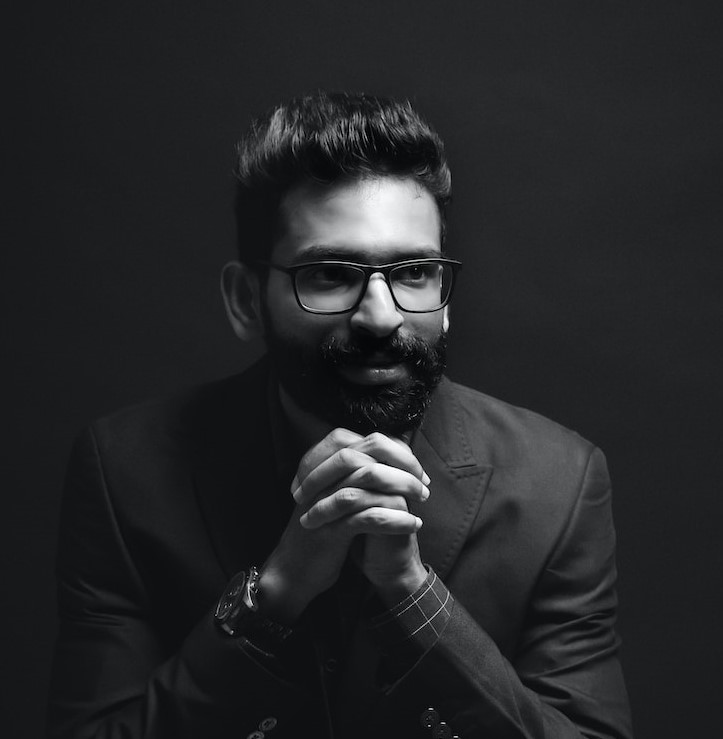
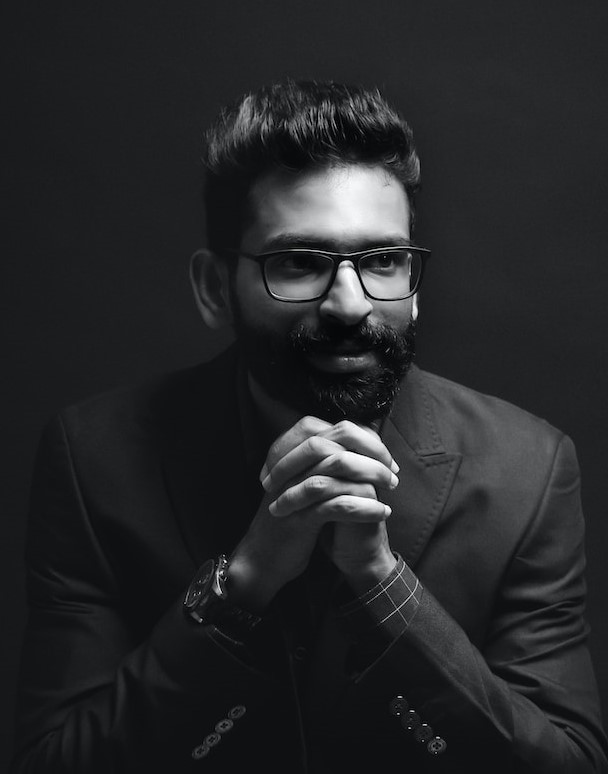
Add files via upload

diff --git a/cvAssignment/index.html b/cvAssignment/index.html
@@ -15,25 +15,28 @@
         <td class="left-panel">
             <main>
 
-                <article>
+                <article style="padding-bottom: 1px;">
+                    <center>
                     <figure class="profile-image">
                         <img src="assets/karen.jpg" 
                             alt="karen profile image" 
                             srcset=""
                             width="200px"
-                            height="200px"
+                            height="250px"
                             >
                     </figure>
+                </center>
                 </article>
 
                 <!--EDUCATION-->
-                <article style="padding-left: 40px;">
+                <article style="padding-left: 40px; padding-bottom: 25px;">
                     <h2 class="main-heads">EDUCATION</h2>
                     <hr color=#eca02e>
                     <br>
 
                     <article style="padding-left: 10px;">
-                        <table class="texts">
+                        <table class="texts"
+                        cellspacing="5">
                             <tr>
                                 <td>Qualification</td>
                                 <td>12th</td>
@@ -65,8 +68,8 @@
                     <hr color=#eca02e>
                     
 
-                    <article style="padding-left: 10px;padding-bottom: 10px;">
-                        <table class="texts">
+                    <article style="padding-left: 10px;padding-bottom: 25px;">
+                        <table class="texts" cellspacing="5">
                             <tr>
                                 <td>Sara Taylore</td>
                             </tr>
@@ -78,7 +81,7 @@
                             </tr>
                         </table>
                     </article>
-                    <article style="padding-left: 10px;padding-bottom: 10px;">
+                    <article style="padding-left: 10px;padding-bottom: 25px;">
                         <table class="texts">
                             <tr>
                                 <td>Sara Taylore</td>
@@ -104,11 +107,10 @@
                     
                 </article>
                 <article class="texts">
-                    <p style="padding-left: 65px;">123456789</p>
+                    <p style="padding-left: 69px;padding-bottom: 0%;">123456789</p>
                 </article>
 
 
-                <br>
                 <article class="contact-style">
                     
 
@@ -118,10 +120,10 @@
                     
                 </article>
                 <article class="texts">
-                    <p style="padding-left: 65px;">hagjdhgajd@gmail.com</p>
+                    <p style="padding-left: 69px;">hagjdhgajd@gmail.com</p>
                 </article>
 
-                <br>
+                
                 <article class="contact-style">
                     
 
@@ -131,10 +133,10 @@
                     
                 </article>
                 <article class="texts">
-                    <p style="padding-left: 65px;">www.uyahduw.com</p>
+                    <p style="padding-left: 69px;">www.uyahduw.com</p>
                 </article>
 
-                <br>
+                
                 <article class="contact-style">
                     
 
@@ -144,10 +146,10 @@
                     
                 </article>
                 <article class="texts">
-                    <p style="padding-left: 65px;">
+                    <p style="padding-left: 69px;">
                         rcaasjkxkdcdckjkdcjdkcjdscdcdbcjdsc
                     </p>
-                    <p style="padding-left: 65px;">
+                    <p style="padding-left: 69px;">
                         jwkcbncjhcdcsdcjdkcvdjvkds
                     </p>
                 </article>
@@ -165,30 +167,33 @@
         <td class="right-panel">
             <main>
                 <header class="">
-                    <h1><strong>KAREN</strong> RICHARDS</h1>
-                    <h3>Associate Software Developer</h3>
+                    <h1 style="font-family: sans-serif;font-weight: normal;">
+                        <span><b>KAREN</b></span>
+                        RICHARDS
+                    </h1>
+                    <h3 style="letter-spacing: 3px;font-weight: normal;">Associate Software Developer</h3>
                 </header>
 
-                <article>
+                <article style="width:99%;">
                     <h3>
                         About Me
                     </h3>
-                    <hr>
+                    <hr color="#000" width="95%" style="margin-right: 100px;">
                     <p>Lorem ipsum dolor sit amet consectetur adipisicing elit. Aspernatur, esse. Sint, veniam amet! Consequuntur eaque, facilis, inventore accusantium fuga aliquid magni fugit ipsum quas culpa alias, perferendis maxime et! Deserunt!</p>
                 </article>
 
-                <article>
+                <article style="width: 99%;">
                     <h3>
                         Work Experience
                     </h3>
-                    <hr>
+                    <hr color="#000" width="95%" style="margin-right: 100px;">
 
-                    <table>
-                        <tr>
+                    <table style="border-spacing: 1px;">
+                        <tr style="">
                             <td style="width: 25%;vertical-align: top;">
                                 2013-2014
                             </td>
-                            <td>
+                            <td style="padding:1px">
                                 <b>JOB POSITION</b>
                                 <p>Company Name</p>
                                 <p>Lorem ipsum dolor sit amet, consectetur adipisicing elit. Tempora rem repellendus minus, vero id voluptates enim quo natus repudiandae aut eveniet voluptatibus eligendi, sequi, inventore distinctio autem ab placeat consequuntur.</p>
@@ -225,18 +230,17 @@
                     </article>
 
                     <article>
-                        <h3>
+                        <h3 style="text-transform: uppercase;">
                             Software Skill
                         </h3>
-                        <hr>
-                        <p>Lorem ipsum dolor sit amet consectetur adipisicing elit. Aspernatur, esse. Sint, veniam amet! Consequuntur eaque, facilis, inventore accusantium fuga aliquid magni fugit ipsum quas culpa alias, perferendis maxime et! Deserunt!</p>
-                    </article>
+                        <hr color="#000" width="95%" style="margin-right: 100px;">
+                        </article>
 
-                    <article>
+                    
+                    <article style="padding-left: 100px;">
                         
-
-                        <table>
-                            <tr>
+                        <table class="progress-table">
+                            <tr class="">
                                 <td>
                                     <label for="file">Adobe Photoshop</label><br>
                                     <progress value="70" max="100"></progress>

diff --git a/cvAssignment/styles/style.css b/cvAssignment/styles/style.css
@@ -1,6 +1,13 @@
 body{
     margin: 0%;
-    padding:0%
+    padding:0%;
+    font-family: sans-serif;
+    margin-left: 0% !important;
+    padding-left:0% !important ;
+}
+
+table{
+    
 }
 
 .main-table{
@@ -9,9 +16,13 @@ body{
     padding-right: 0% !important;
     margin-right: 0% !important;
     width: 100%;
+    border-collapse: collapse !important;
 }
 .main-table .left-panel{
     width: 10%;
+    padding: 0%;
+    padding-left: 3px;
+    padding-bottom: 3px;
 }
 
 tr .left-panel{
@@ -27,7 +38,7 @@ tr .left-panel main{
 }
 
 .profile-image{
-    padding-top: 3px;
+    padding-top: 5px;
 }
 .main-heads{
     text-transform: uppercase;
@@ -35,56 +46,81 @@ tr .left-panel main{
     font-size: medium;
 }
 .left-panel hr{
-    color: #eca02e;
+    color: #f08b1e;
 }
 .texts{
     color: #fff !important;
     padding-right: 15px;
+    
+}
+.texts td{
+    padding-right: 25px;
 }
 .contact-style{
-    background-color: #eca02e;
+    background-color: #f08b1e;
     color: #fff;
+    
 }
 
 .contact-style div{
-    background-color: gray;
+    background-color: #6b6a6a;
     color: #fff;
-    padding-left:30px;
-    padding:1px;
+    height: 30px;
+   
     margin-left: 40px;
+    
 }
 .contact-style p{
     padding-left:30px;
-    
+    padding-top: 5px;
 }
 
 .right-panel{
-    
+    padding: 0%;
+    padding-top: 15px;
 
 }
 
 .right-panel header{
-    background-color: #eca02e;
-    
+    background-color: #f08b1e;
+    padding-right: 0px !important;
+    padding-left: 20px !important;
+    padding: 5px;
 }
 
 .right-panel article{
-    padding: 5px !important;
+    padding-left: 20px !important;
 
 }
 .right-panel article p{
     padding: 5px !important;
 
 } 
+.right-panel article .progress-table{
+    padding: 5px !important;
+    padding-left: 230px !important;
+} 
+.right-panel article .progress-table td{
+    padding-right: 40px;
+    padding-bottom: 20px;
+} 
+
 
 progress {
-    width: 200px;
+    width: 280px;
     height: 5px;
     border: 2px;
  }
  progress::-webkit-progress-bar {
-    background-color: gray;
+    background-color: #6b6a6a;
  }
  progress::-webkit-progress-value {
     background-color: black;
+ }
+
+ .progress-table{
+    
+ }
+ hr{
+    border: 1.4px solid;
  }
